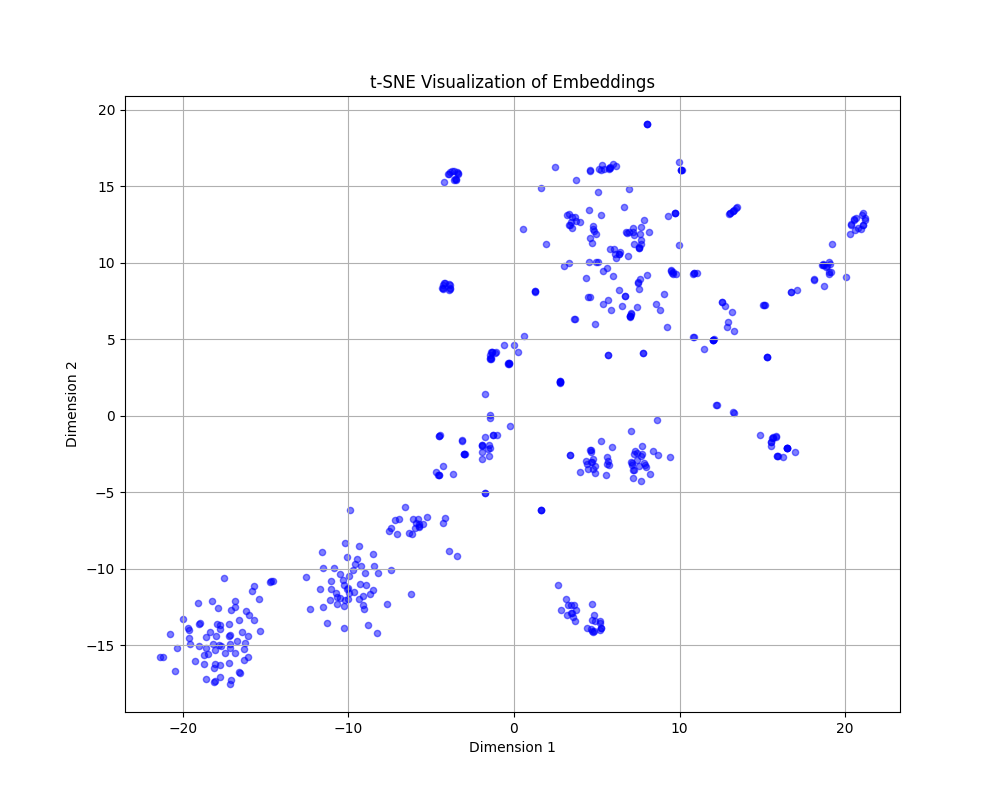
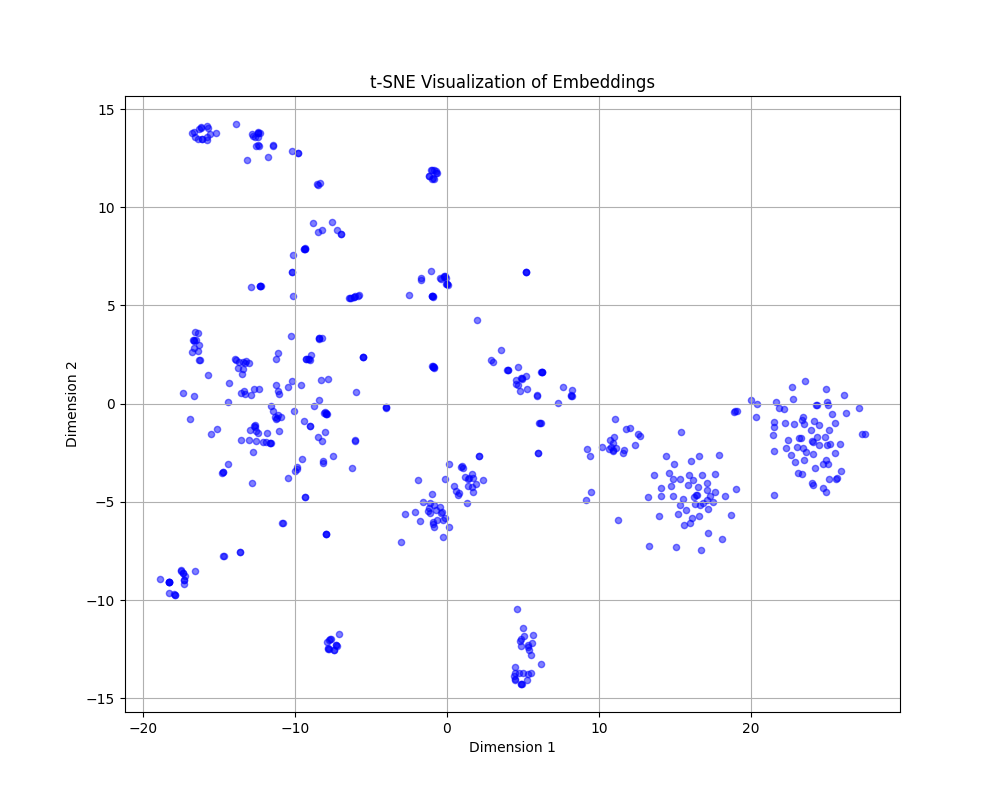
adjustment2

diff --git a/tSNE.py b/tSNE.py
@@ -1,3 +1,11 @@
+'''
+Author: xuesen-lab0 kfsaghak19@gmail.com
+Date: 2025-02-25 10:46:16
+LastEditors: xuesen-lab0 kfsaghak19@gmail.com
+LastEditTime: 2025-02-25 14:23:04
+FilePath: \winter-quiz\tSNE.py
+Description: 这是默认设置,请设置`customMade`, 打开koroFileHeader查看配置 进行设置: https://github.com/OBKoro1/koro1FileHeader/wiki/%E9%85%8D%E7%BD%AE
+'''
 import numpy as np
 from sklearn.manifold import TSNE
 from sklearn.preprocessing import StandardScaler
@@ -22,9 +30,9 @@ embeddings = scaler.fit_transform(embeddings)
 tsne = TSNE(
     n_components=2, 
     random_state=42, 
-    perplexity=50,  
-    learning_rate=500, 
-    n_iter=3000,  # 迭代次数
+    perplexity=70,  
+    learning_rate=200, 
+    n_iter=1000,  # 迭代次数
     early_exaggeration=12
 )
 
